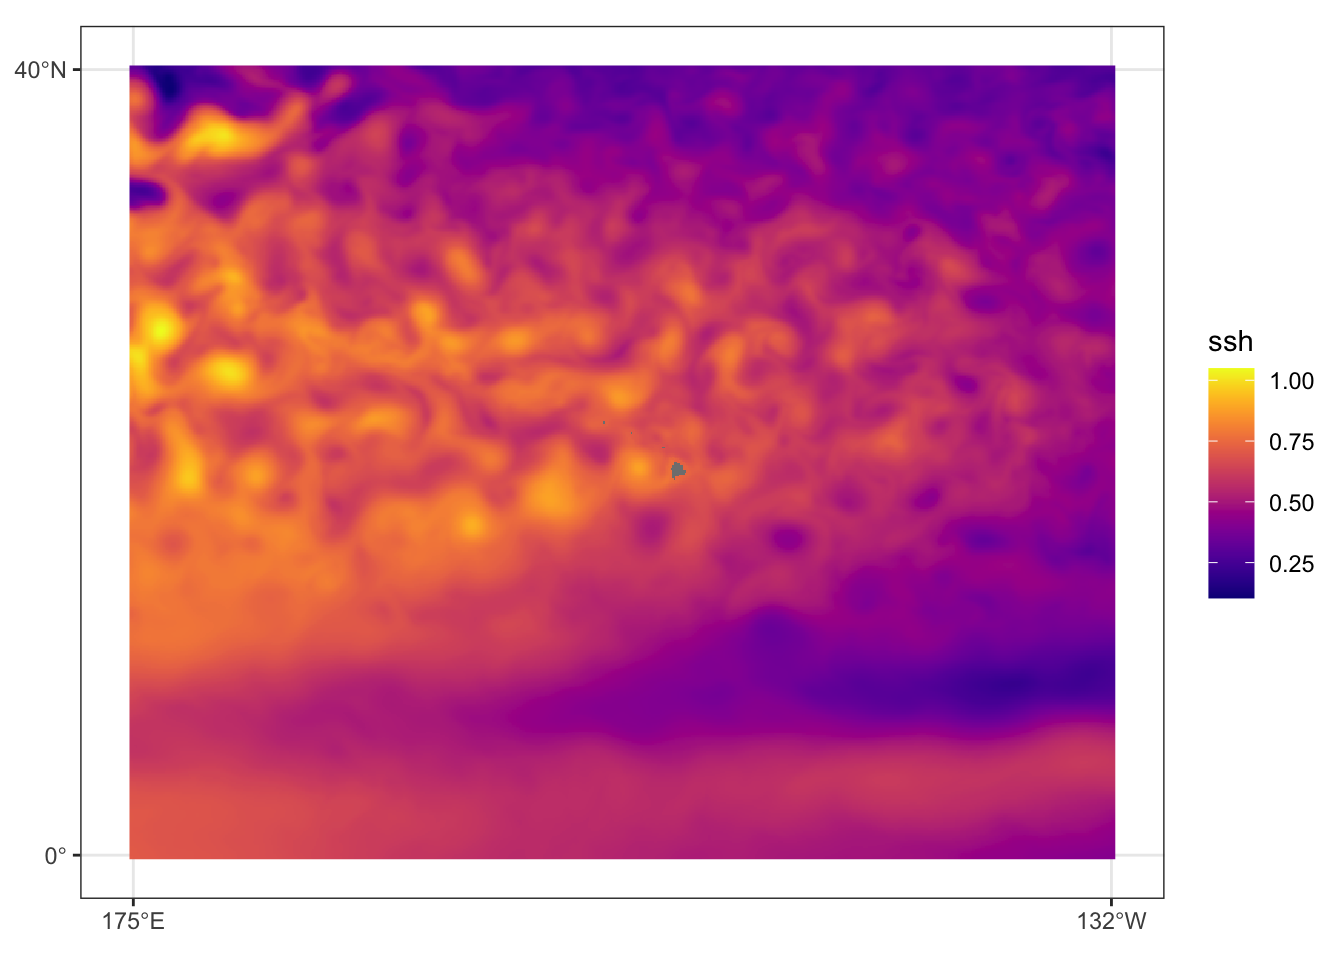
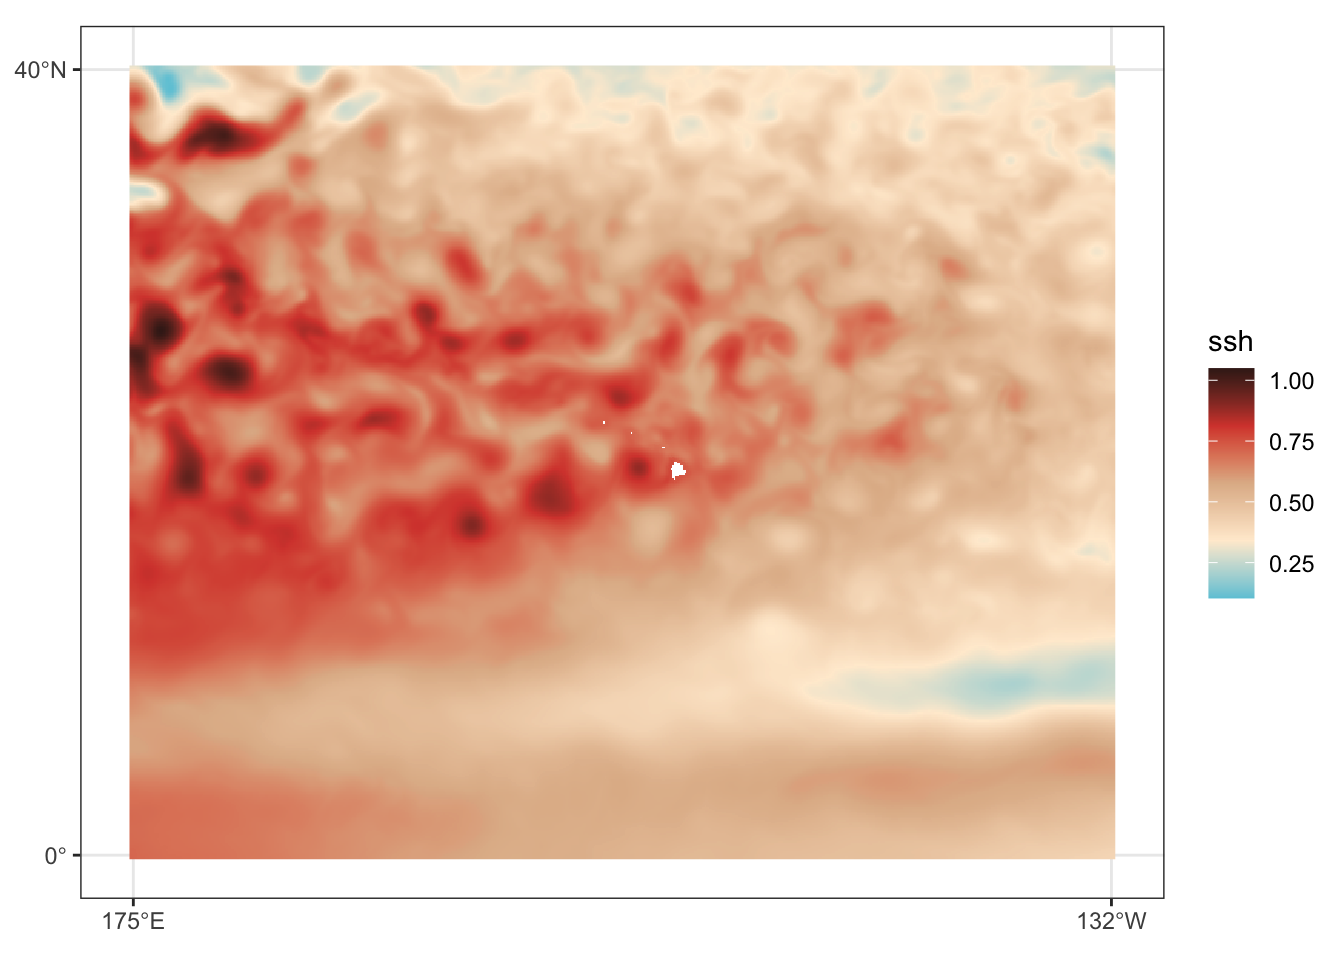
update color pal

diff --git a/docs/content/s5_download_prediction_var/index.html b/docs/content/s5_download_prediction_var/index.html
@@ -373,6 +373,15 @@ pre > code.sourceCode > span > a:first-child::before { text-decoration: underlin
 <section id="prediction-data-view-for-july-31-2023" class="level3">
 <h3 class="anchored" data-anchor-id="prediction-data-view-for-july-31-2023">Prediction data view for July, 31 2023</h3>
 <div class="cell">
+<div class="cell-output cell-output-stderr">
+<pre><code>
+Attaching package: 'tidyterra'</code></pre>
+</div>
+<div class="cell-output cell-output-stderr">
+<pre><code>The following object is masked from 'package:stats':
+
+    filter</code></pre>
+</div>
 <div class="cell-output-display">
 <div>
 <figure class="figure">
